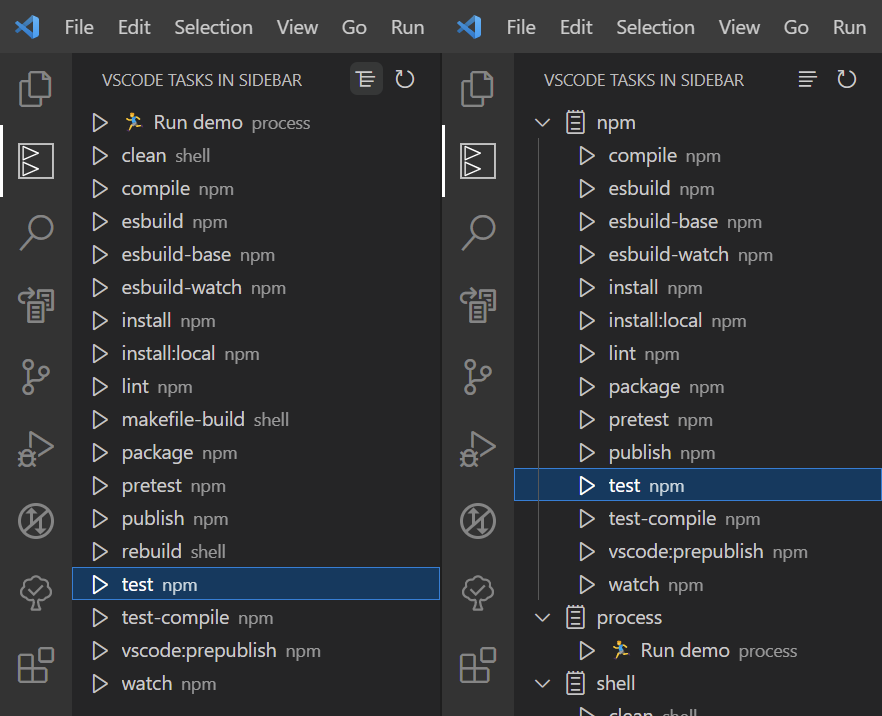
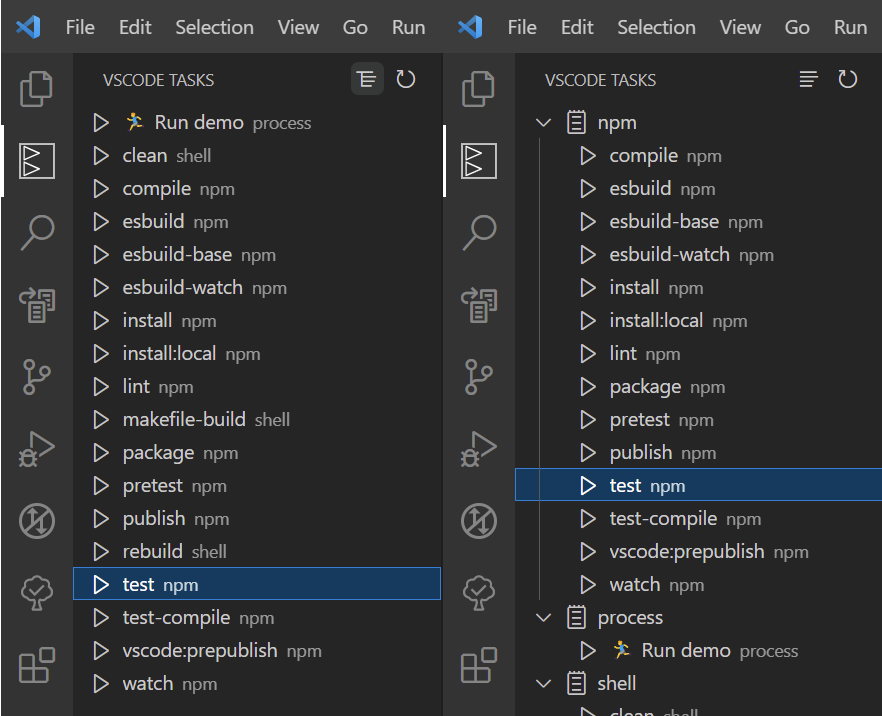
Finished renaming the view

diff --git a/CHANGELOG.md b/CHANGELOG.md
@@ -143,3 +143,17 @@ All notable changes to the "VSCode Tasks in Sidebar" extension will be documente
 ### Removed
 
 - Nothing
+
+## 1.4.0 (2026-03-11)
+
+### Added
+
+- Nothing
+
+### Changed
+
+- Renamed the view
+
+### Removed
+
+- Nothing
